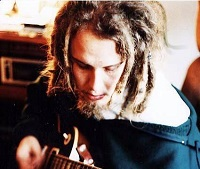
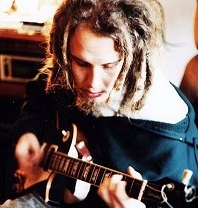
resized individual pictures

diff --git a/index.html b/index.html
@@ -256,7 +256,7 @@
 			</p>
           </div>
           <div class="col-md-4">
-            <p><img src="img/earlyIan.jpg" alt="Scary Foreigners Band" class="img-responsive"></p>
+            <p><img src="img/iainold.jpg" alt="Scary Foreigners Band" class="img-responsive"></p>
           </div>		  
 		</div>
         <div class="row">
